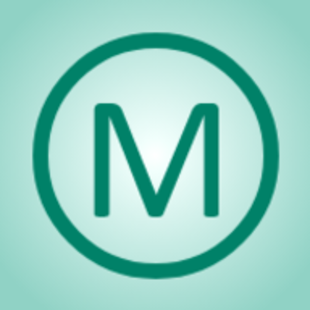
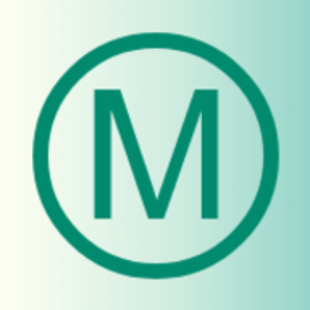
updated project cards structure

diff --git a/src/components/ProjectSection/index.js b/src/components/ProjectSection/index.js
@@ -2,19 +2,14 @@ import React, {useState, useEffect} from 'react'
 import {
     Section,
     ContentWrapper,
-    ProjectWrapper,
-    ProjectCard,
-    ProjectImage,
-    ProjectP,
-    ProjectH3,
-    ProjectTech,
-    TechItem
+    ProjectWrapper
 } from './ProjectStyling';
 import 'react-tabs/style/react-tabs.css';
 import { Tab, Tabs, TabList, TabPanel } from 'react-tabs';
-import ScrShot1 from '../../images/ofmScr.png'
 import "aos/dist/aos.css";
 import Aos from 'aos';
+import Card from './Card';
+import { Prj1, Prj2, Prj3, Prj4, Prj5, Prj6, Prj7 } from './Data';
 
 const ProjectSection = () => {
     const [tabIndex, setTabIndex] = useState(0);
@@ -31,105 +26,22 @@ const ProjectSection = () => {
                 <h2>Projects</h2>
                 <Tabs selectedIndex={tabIndex} onSelect={index => setTabIndex(index)}>
                     <TabList>
-                        <Tab tabIndex="0">JavaScript</Tab>
-                        <Tab tabIndex="0">C#</Tab>
-                        <Tab tabIndex="0">Unity</Tab>
+                        <Tab tabIndex="0">Featured</Tab>
+                        <Tab tabIndex="0">In Progress</Tab>
                     </TabList>
-
                     <TabPanel>
                         <ProjectWrapper>
-                            <ProjectCard tabIndex="0">
-                                <ProjectImage src={ScrShot1} alt="Project title"/>
-                                <ProjectH3>Project 1</ProjectH3>
-                                <ProjectP>
-                                    My name is Malin and I’m 29 years old from Stockholm, Sweden and I’m a recent web development gradute from Mid Sweden University.
-                                </ProjectP> 
-                                <ProjectTech className="prjtechs">
-                                    <TechItem>React</TechItem>
-                                    <TechItem>CSS</TechItem>
-                                    <TechItem>After Effects</TechItem>
-                                </ProjectTech>                           
-                            </ProjectCard>
-                            <ProjectCard tabIndex="0">
-                                <ProjectImage src={ScrShot1} alt="Project title"/>
-                                <ProjectH3>Project 2</ProjectH3>
-                                <ProjectP>
-                                    My name is Malin and I’m 29 years old from Stockholm, Sweden and I’m a recent web development gradute from Mid Sweden University.
-                                </ProjectP>
-                                <ProjectTech className="prjtechs">
-                                    <TechItem>React</TechItem>
-                                    <TechItem>CSS</TechItem>
-                                    <TechItem>After Effects</TechItem>
-                                </ProjectTech> 
-                            </ProjectCard>
-                            <ProjectCard tabIndex="0">
-                                <ProjectImage src={ScrShot1} alt="Project title"/>
-                                <ProjectH3>Project 3</ProjectH3>
-                                <ProjectP>
-                                    My name is Malin and I’m 29 years old from Stockholm, Sweden and I’m a recent web development gradute from Mid Sweden University.
-                                </ProjectP>  
-                                <ProjectTech className="prjtechs">
-                                    <TechItem>React</TechItem>
-                                    <TechItem>CSS</TechItem>
-                                    <TechItem>After Effects</TechItem>
-                                </ProjectTech>                           
-                            </ProjectCard>
-                            <ProjectCard tabIndex="0">
-                                <ProjectImage src={ScrShot1} alt="Project title"/>
-                                <ProjectH3>Project 1</ProjectH3>
-                                <ProjectP>
-                                    My name is Malin and I’m 29 years old from Stockholm, Sweden and I’m a recent web development gradute from Mid Sweden University.
-                                </ProjectP> 
-                                <ProjectTech className="prjtechs" alt="Project title">
-                                    <TechItem>React</TechItem>
-                                    <TechItem>CSS</TechItem>
-                                    <TechItem>After Effects</TechItem>
-                                </ProjectTech>                           
-                            </ProjectCard>
+                            <Card {...Prj1}/>
+                            <Card {...Prj2}/>
+                            <Card {...Prj3}/>
+                            <Card {...Prj4}/>
+                            <Card {...Prj5}/>
+                            <Card {...Prj6}/>
                         </ProjectWrapper>
                     </TabPanel>
                     <TabPanel>
-                    <ProjectWrapper>
-                            <ProjectCard tabIndex="0">
-                                <ProjectImage src={ScrShot1} alt="Project title"/>
-                                <ProjectH3>Project 1</ProjectH3>
-                                <ProjectP>
-                                    My name is Malin and I’m 29 years old from Stockholm, Sweden and I’m a recent web development gradute from Mid Sweden University.
-                                </ProjectP> 
-                                <ProjectTech className="prjtechs">
-                                    <TechItem>React</TechItem>
-                                    <TechItem>CSS</TechItem>
-                                    <TechItem>After Effects</TechItem>
-                                </ProjectTech>                            
-                            </ProjectCard>
-                            <ProjectCard tabIndex="0">
-                                <ProjectImage src={ScrShot1} alt="Project title"/>
-                                <ProjectH3>Project 2</ProjectH3>
-                                <ProjectP>
-                                    My name is Malin and I’m 29 years old from Stockholm, Sweden and I’m a recent web development gradute from Mid Sweden University.
-                                </ProjectP>
-                                <ProjectTech className="prjtechs">
-                                    <TechItem>React</TechItem>
-                                    <TechItem>CSS</TechItem>
-                                    <TechItem>After Effects</TechItem>
-                                </ProjectTech> 
-                            </ProjectCard>
-                        </ProjectWrapper>
-                    </TabPanel>
-                    <TabPanel>
-                    <ProjectWrapper>
-                            <ProjectCard tabIndex="0">
-                                <ProjectImage src={ScrShot1} alt="Project title"/>
-                                <ProjectH3>Project 1</ProjectH3>
-                                <ProjectP>
-                                    My name is Malin and I’m 29 years old from Stockholm, Sweden and I’m a recent web development gradute from Mid Sweden University.
-                                </ProjectP>
-                                <ProjectTech className="prjtechs">
-                                    <TechItem>React</TechItem>
-                                    <TechItem>CSS</TechItem>
-                                    <TechItem>After Effects</TechItem>
-                                </ProjectTech>                             
-                            </ProjectCard>
+                        <ProjectWrapper>
+                            <Card {...Prj7}/>
                         </ProjectWrapper>
                     </TabPanel>
                 </Tabs>  

diff --git a/src/components/ProjectSection/Data.js b/src/components/ProjectSection/Data.js
@@ -1,0 +1,70 @@
+export const Prj1 = {
+    img: require('../../images/ofmScr.png').default,
+    alt: 'Screenshot of Portfolio Project',
+    title: 'React Portfolio',
+    desc: 'My very first React project',
+    techItem1: 'ReactJS',
+    techItem2: 'JavaScript',
+    techItem3: 'Styled Components',
+    techItem4: 'After Effects'
+};
+
+export const Prj2 = {
+    url: "https://molliepoppin.itch.io/operation-full-moon",
+    img: require('../../images/ofmScr.png').default,
+    alt: 'Screenshot of Operation Full Moon Project',
+    title: 'Operation Full Moon',
+    desc: 'My first ever 3D game project with Unity. The projects was a part of a weekly challenge by the indie game developer David Whele`s course GDU.',
+    techItem1: 'Unity',
+    techItem2: 'C#',
+    techItem3: 'PlayMaker'
+};
+
+export const Prj3 = {
+    img: require('../../images/ofmScr.png').default,
+    alt: 'Screenshot of WordPress Project',
+    title: 'WordPress Portfolio',
+    desc: 'My version 1 of my personal portfolio. Made with WordPress.',
+    techItem1: 'WordPress',
+    techItem2: 'PHP'
+};
+
+export const Prj4 = {
+    url: "https://molliepoppin.itch.io/operation-full-moon",
+    img: require('../../images/ofmScr.png').default,
+    alt: 'Screenshot of Thesis Project',
+    title: 'Webserver From ASP.NET 4.8 to Blazor Server',
+    desc: 'Education thesis project.',
+    techItem1: 'Blazor',
+    techItem2: 'C#',
+    techItem3: 'Bootstrap'
+};
+
+export const Prj5 = {
+    img: require('../../images/ofmScr.png').default,
+    alt: 'Screenshot of The Game Corner Project',
+    title: 'The Game Corner',
+    desc: 'This was the final examination of the ASP.NET CORE WITH C# course. The project is a .NET Entity Framework web application with CRUD functionality.',
+    techItem1: 'C#',
+    techItem2: 'ASP.NET Core',
+};
+
+export const Prj6 = {
+    img: require('../../images/ofmScr.png').default,
+    alt: 'Screenshot of Swedish Radio Open API Project',
+    title: 'Swedish Radio Open API',
+    desc: 'A tableu web application made with the open API of the Swedish Radio. The purpose of the project was to only use JavaScript. I used AJAX in order to format the desired API’s URL to JSON, this in order to present the channels and it’s up coming programs and dates.',
+    techItem1: 'JavaScript',
+    techItem2: 'AJAX',
+    techItem3: 'API'
+};
+
+export const Prj7 = {
+    img: require('../../images/ofmScr.png').default,
+    alt: 'Screenshot of 2D Game Project',
+    title: '2D Game',
+    desc: 'My second game is going to be a 2D game which I´m currently working on.',
+    techItem1: 'Unity',
+    techItem2: 'C#',
+    techItem3: 'Adobe Photoshop'
+};

diff --git a/src/components/ProjectSection/ProjectStyling.js b/src/components/ProjectSection/ProjectStyling.js
@@ -26,9 +26,9 @@ export const ProjectWrapper = styled.div`
     margin: 0 auto;
     display: grid;
     grid-template-columns: 1fr 1fr;
-    grid-gap: 20px;
+    grid-gap: 10px;
     padding-left: 1.25%;
-    padding-right: 2.5%;
+    padding-right: 1.25%;
     justify-content: stretch;
     align-items: center;
 
@@ -39,28 +39,31 @@ export const ProjectWrapper = styled.div`
         grid-template-columns: 1fr;
     }
 `
-export const ProjectCard = styled.div`
+export const ProjectCard = styled.a`
     background-color: ${(props) => props.theme.cardColor};
     flex-direction: column;
     justify-content: center;
     border-radius: 6px;
     align-items: center;
+    justify-content: stretch;
     box-shadow: 3px 4px 4px rgba(0, 0, 0, 0.32);
-    transition: all .4s ease-in-out;
+    transition: all .2s ease-in-out;
     cursor: pointer;
+    height: 30rem;
+    line-height: 1.2;
+    position: relative;
 
     &:hover{
-        transition: .2s ease-in-out;
         -webkit-transform: scale(1.02);
         -moz-transform: scale(1.02);
         -o-transform: scale(1.02);
         -ms-transform: scale(1.02);
         transform: scale(1.02);
         border: .5px solid ${(props) => props.theme.accentColor};
+        color: ${(props) => props.theme.fontColor};
     }
     @media screen and (max-width: 1000px){
-        &:hover{
-            transition: .2s ease-in-out;
+        &:active{
             -webkit-transform: scale(.98);
             -moz-transform: scale(.98);
             -o-transform: scale(.98);
@@ -71,19 +74,23 @@ export const ProjectCard = styled.div`
     }
 `
 export const ProjectImage = styled.img`
-    max-width: 100%;
+    width: 100%;
+    height: 14rem;
     border-top-left-radius: 6px;
     border-top-right-radius: 6px;
 `
 export const ProjectH3 = styled.h3`
-    padding: 5%;
+    padding: 5% 5% 0 5%;
 `
 export const ProjectP = styled.p`
-    padding: 0 5% 0 5%;
+    padding: 2.5% 5% 0 5%;
 `
 export const ProjectTech = styled.ul`
-    padding: 5% 5% 0 5%;
+    padding: 5%;
     color: ${(props) => props.theme.accentColor};
+    position: absolute;
+    bottom: 0;
+    width: 100%;
 `
 export const TechItem = styled.li`
     display: inline-block;

diff --git a/src/themes.js b/src/themes.js
@@ -1,11 +1,11 @@
 import {createGlobalStyle} from 'styled-components';
 
 export const lightMode = {
-    body: 'linear-gradient(90deg, rgba(245,255,239,1) 0%, rgba(210,255,239,1) 100%)',
-    nav: 'linear-gradient(90deg, rgba(245,255,239,1) 0%, rgba(210,255,239,1) 100%)',
-    navMobile: 'linear-gradient(90deg, rgba(245,255,239,1) 0%, rgba(210,255,239,1) 100%)',
-    moz: '-moz-linear-gradient(90deg, rgba(245,255,239,1) 0%, rgba(210,255,239,1) 100%)',
-    webkit: '-webkit-linear-gradient(90deg, rgba(245,255,239,1) 0%, rgba(210,255,239,1) 100%)',
+    body: 'linear-gradient(90deg, rgba(245,255,249,1) 0%, rgba(210,255,239,1) 100%)',
+    nav: 'linear-gradient(90deg, rgba(245,255,249,1) 0%, rgba(210,255,239,1) 100%)',
+    navMobile: 'linear-gradient(90deg, rgba(245,255,249,1) 0%, rgba(210,255,239,1) 100%)',
+    moz: '-moz-linear-gradient(90deg, rgba(245,255,249,1) 0%, rgba(210,255,239,1) 100%)',
+    webkit: '-webkit-linear-gradient(90deg, rgba(245,255,249,1) 0%, rgba(210,255,239,1) 100%)',
     cardColor: 'rgba(0,0,0,0.04)',
     fontColor: 'rgb(16, 15, 41)',
     accentColor: '#02a686',
@@ -39,7 +39,7 @@ export const GlobalStyle = createGlobalStyle`
         background: ${(props) => props.theme.webkit};
         background: ${(props) => props.theme.body};
         color: ${(props) => props.theme.fontColor};
-        line-height: 1.5;
+        line-height: 1.4;
         scroll-behavior: smooth;
         font-family: 'Lato', sans-serif;
         cursor: auto;
@@ -60,7 +60,7 @@ export const GlobalStyle = createGlobalStyle`
     h5{ font-size: 14px;}
     h6{ font-size: 12px;}
     p, 
-    a{ font-size: 17px;}
+    a{ font-size: 16px;}
     a{ color: ${(props) => props.theme.fontColor}; }
     a:hover{ color: ${(props) => props.theme.accentColor}; }
     span{ color: ${(props) => props.theme.accentColor}; }
@@ -76,7 +76,7 @@ export const GlobalStyle = createGlobalStyle`
             font-size: 26px;
         }
         p, 
-        a{ font-size: 15px;}
+        a{ font-size: 14px;}
     }
     /* Tablet */
     @media screen and (max-width: 768px) and (min-width: 376px){

diff --git a/src/components/ProjectSection/Card.js b/src/components/ProjectSection/Card.js
@@ -1,0 +1,28 @@
+import React from 'react'
+import {
+    ProjectCard,
+    ProjectImage,
+    ProjectP,
+    ProjectH3,
+    ProjectTech,
+    TechItem
+} from './ProjectStyling';
+
+const Card = ({url, img, alt, title, desc, techItem1, techItem2, techItem3, techItem4}) => {
+
+    const techItems = [techItem1, techItem2, techItem3, techItem4];
+    return (
+        <ProjectCard tabIndex="0" href={url} target="_blank" rel="noreferrer">
+            <ProjectImage src={img} alt={alt}/>
+            <ProjectH3>{title}</ProjectH3>
+            <ProjectP>{desc}</ProjectP> 
+            <ProjectTech className="prjtechs">
+                {techItems.map((techItem)=>{
+                    return <TechItem>{techItem}</TechItem>
+                })}
+            </ProjectTech>                           
+        </ProjectCard>
+    )
+}
+
+export default Card;
